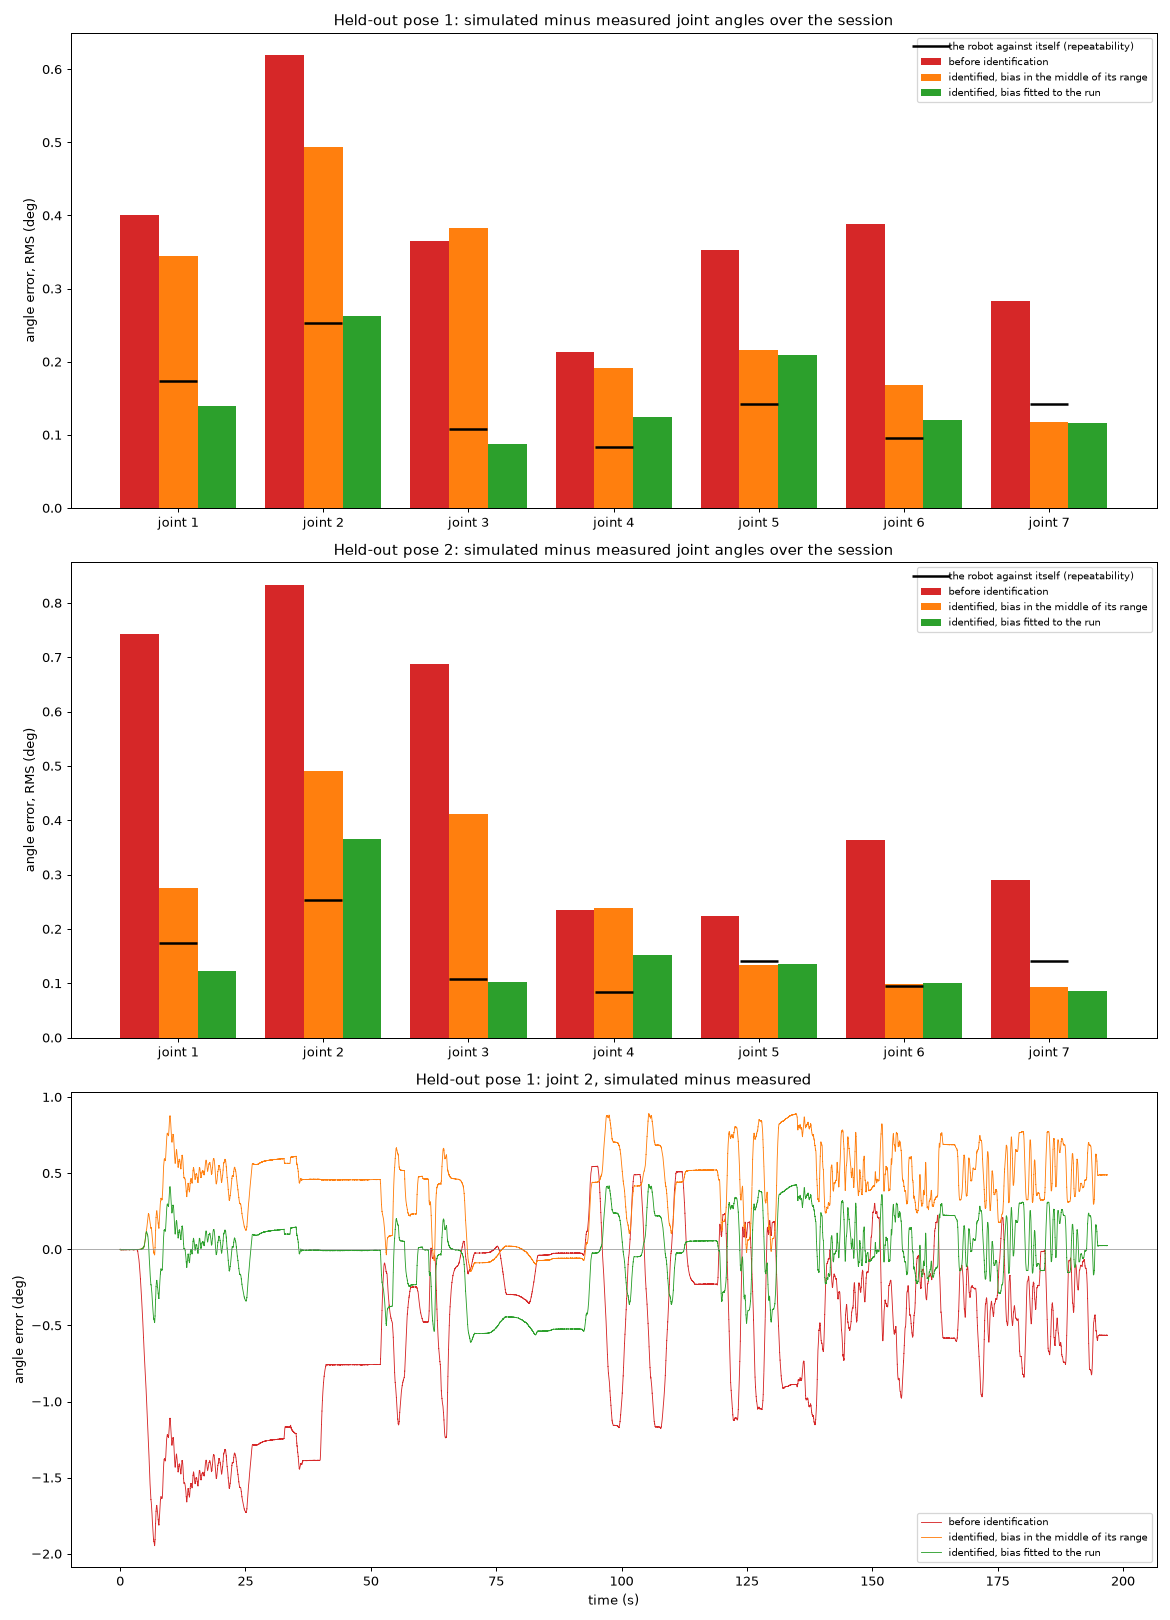
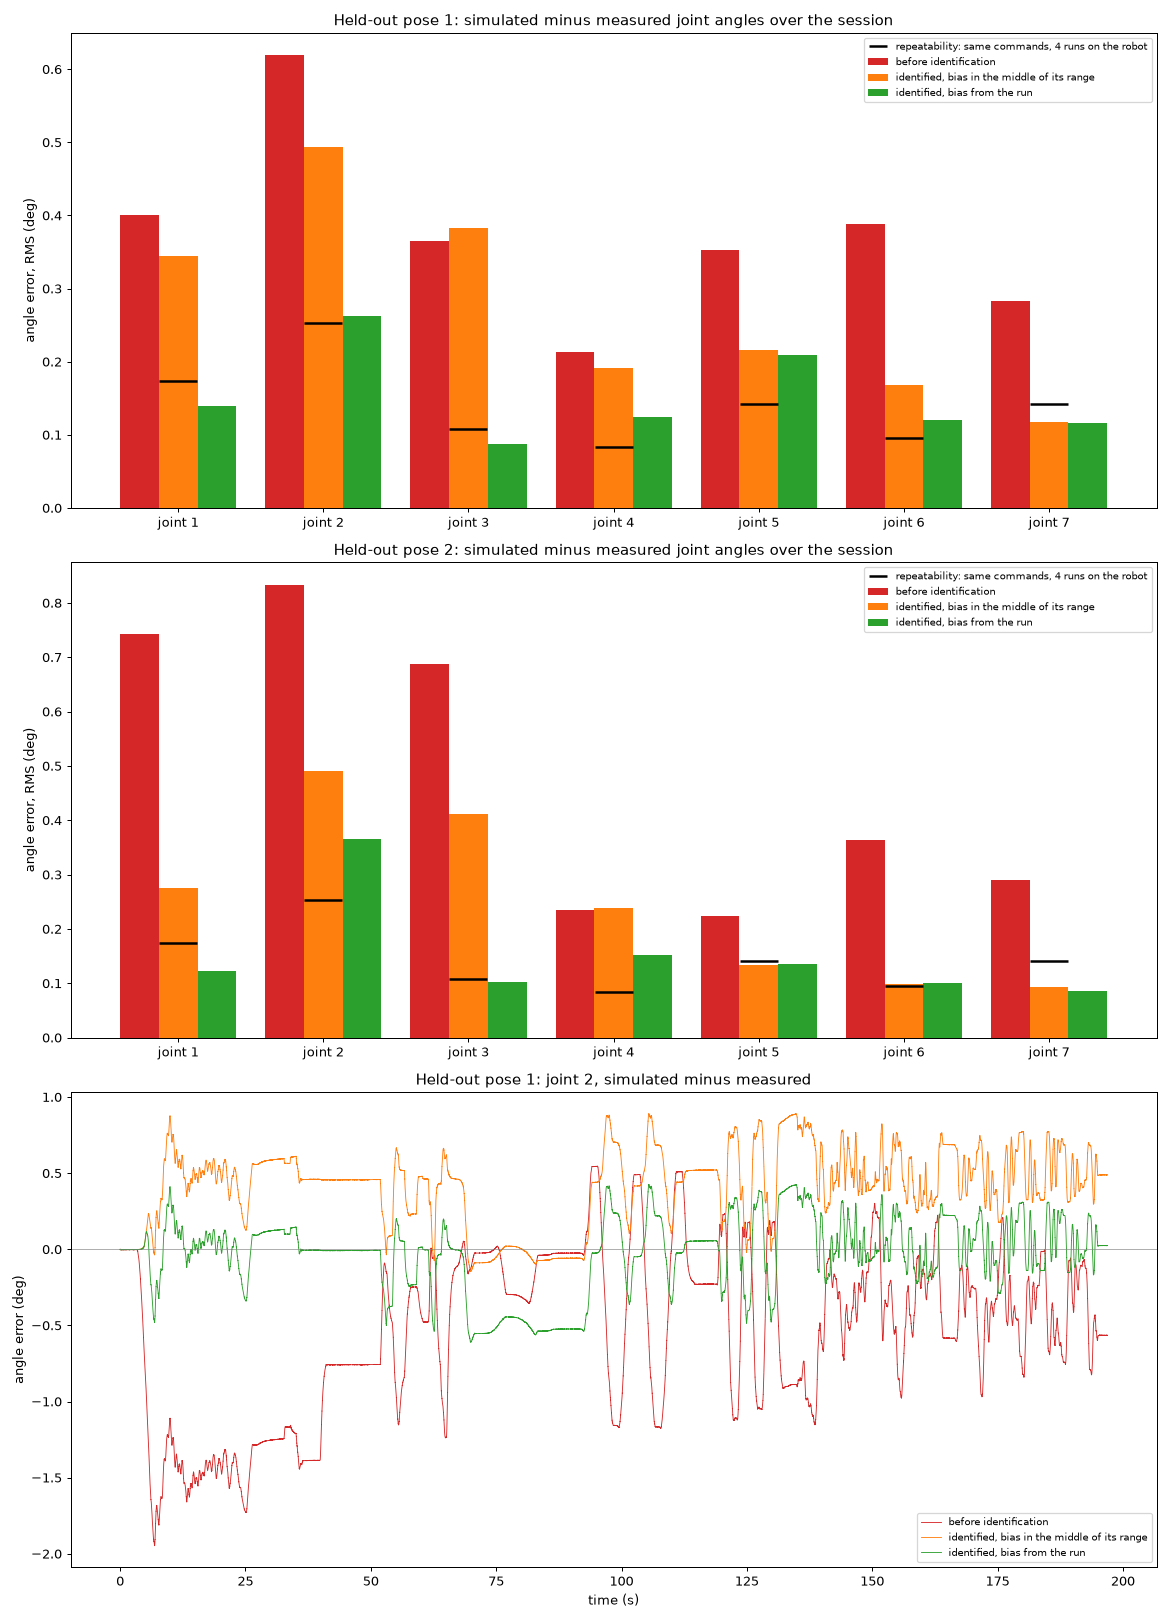
Plainer labels for repeatability and the run's own bias
The validation figure and the results README say "repeatability: same
commands, 4 runs on the robot" instead of "the robot against itself", and
"bias from the run" instead of "bias fitted to the run", so the figure and
the README use the same labels. The README tells how the repeatability is
measured and that it is only an approximate minimum for the held-out
sessions (another pose, shorter session). The numbers do not change.

Claude-Session: https://claude.ai/code/session_01Sye2zSWVdfYhvuVCzh55ic

Changed region(s): [[0.7385, 0.3395, 0.9538, 0.4012], [0.7385, 0.0, 0.9538, 0.0617]]

diff --git a/scripts/validate.py b/scripts/validate.py
@@ -21,7 +21,7 @@ Outputs in --out:
 
 Example:
   uv run python scripts/validate.py --logs data/campaign --model "before identification:nominal" \\
-      --model "identified, bias fitted to the run:results/model.json:1:results/bias/bias_per_run.json" \\
+      --model "identified, bias from the run:results/model.json:1:results/bias/bias_per_run.json" \\
       --out results/validate
 """
 
@@ -136,10 +136,10 @@ def main() -> None:
     for i, (label, *_) in enumerate(models):
       ax.bar(np.arange(7) + (i - (len(models) - 1) / 2) * width, result["runs"][run][label]["session_deg"],
              width, label=label, color=colors[i % len(colors)])
-    ax.plot(np.arange(7), floor, "k_", markersize=30, mew=2, label="the robot against itself (repeatability)")
+    ax.plot(np.arange(7), floor, "k_", markersize=30, mew=2, label="repeatability: same commands, 4 runs on the robot")
     ax.set(xticks=range(7), xticklabels=[f"joint {j + 1}" for j in range(7)], ylabel="angle error, RMS (deg)",
            title=f"{names[run]}: simulated minus measured joint angles over the session")
-    ax.legend(fontsize=8)
+    ax.legend(fontsize=8, markerscale=0.5)
   run = runs[0]
   t = np.arange(len(errors[(models[0][0], run)])) * fit.DT
   ax = axes[-1]

diff --git a/results/README.md b/results/README.md
@@ -104,8 +104,17 @@ session. Then the simulation gets the same commands as the robot. The table
 gives the RMS error of the simulated joint angles during the session, in
 degrees.
 
-Repeatability is the difference between four runs of the reference session
-on the robot. No model can have a smaller error than this difference.
+The repeatability is the difference between runs on the robot with the same
+commands. The robot did the reference session (one minute at the center
+pose) four times. The commands were the same each time, but the measured
+joint angles were not the same. For each of the six pairs of runs, we
+calculated the RMS difference of the joint angles. The repeatability is the
+average of these six differences.
+
+No model can have a smaller error than the repeatability. But we measured
+the repeatability at the center pose, in sessions of one minute. The test
+sessions are at two different poses and are three minutes long. Thus, the
+repeatability is only an approximate minimum of the error in these tests.
 
 The table and the figure compare these models:
 
@@ -119,7 +128,7 @@ The table and the figure compare these models:
 
 | Joint | 1 | 2 | 3 | 4 | 5 | 6 | 7 |
 | --- | --- | --- | --- | --- | --- | --- | --- |
-| Repeatability: the robot compared with the robot | 0.17 | 0.25 | 0.11 | 0.08 | 0.14 | 0.10 | 0.14 |
+| Repeatability (the same commands, 4 runs on the robot) | 0.17 | 0.25 | 0.11 | 0.08 | 0.14 | 0.10 | 0.14 |
 | Pose 1, before identification | 0.40 | 0.62 | 0.36 | 0.21 | 0.35 | 0.39 | 0.28 |
 | Pose 1, identified, bias in the middle of its range | 0.34 | 0.49 | 0.38 | 0.19 | 0.22 | 0.17 | 0.12 |
 | Pose 1, identified, bias from the run | 0.14 | 0.26 | 0.09 | 0.12 | 0.21 | 0.12 | 0.12 |
